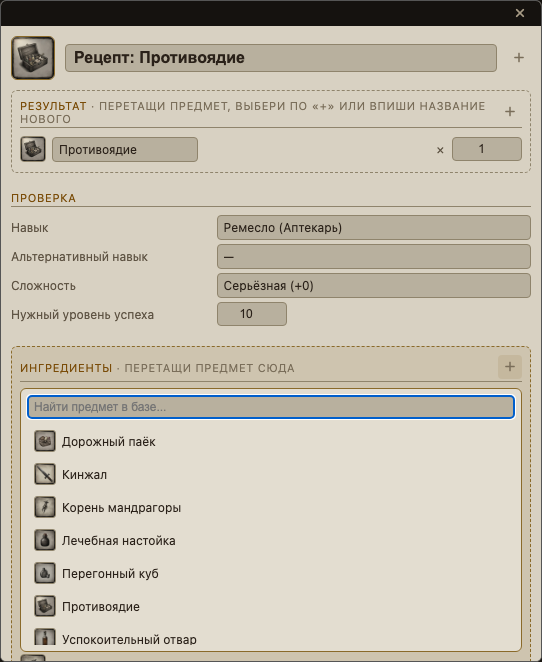
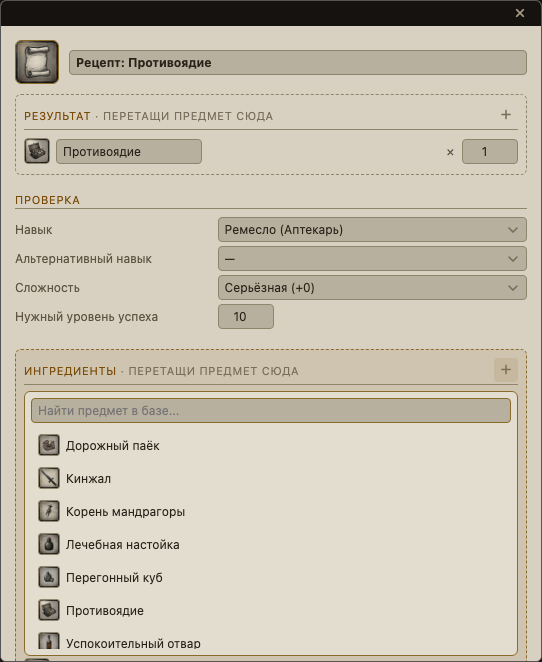
v0.1.5: фикс вёрстки листа на живом AppV2 (растяжка корня, поля не распирают строки, скролл листа), название WFRP 4e Recipe Book

diff --git a/styles/recipe-book.css b/styles/recipe-book.css
@@ -7,6 +7,7 @@
 /* ---------- Разворот книги ---------- */
 
 .wfrp-recipe-book .rb-root {
+  width: 100%; align-self: stretch; box-sizing: border-box;
   display: grid;
   grid-template-columns: minmax(280px, 340px) 1fr;
   height: 100%; min-height: 0;
@@ -80,11 +81,17 @@
 
 /* ---------- Лист рецепта (ГМ) ---------- */
 
-.rb-sheet .window-content { background: var(--rb-bg); color: var(--rb-text); }
-.wfrp-recipe-book .rb-sheet-root { display: flex; flex-direction: column; gap: var(--rb-space-4); padding: var(--rb-space-4); overflow-y: auto; height: 100%; box-sizing: border-box; font-size: var(--rb-fs-base); }
+.rb-sheet .window-content { background: var(--rb-bg); color: var(--rb-text); padding: 0; overflow: hidden; display: flex; flex-direction: column; }
+.wfrp-recipe-book .rb-sheet-root {
+  display: flex; flex-direction: column; gap: var(--rb-space-4);
+  padding: var(--rb-space-5); font-size: var(--rb-fs-base);
+  /* живой AppV2: растягиваемся на всю ширину и скроллим сами, по горизонтали не вылезаем */
+  width: 100%; align-self: stretch; box-sizing: border-box;
+  flex: 1; min-height: 0; overflow-y: auto; overflow-x: hidden;
+}
 .wfrp-recipe-book .rb-sheet-head { display: flex; gap: var(--rb-space-4); align-items: center; }
 .wfrp-recipe-book .rb-sheet-img { width: var(--rb-icon-l); height: var(--rb-icon-l); object-fit: cover; border: 1px solid var(--rb-gold-soft); border-radius: var(--rb-radius-lg); cursor: pointer; }
-.wfrp-recipe-book .rb-sheet-name { flex: 1; font-size: var(--rb-fs-xl); font-weight: 700; padding: var(--rb-space-1) var(--rb-space-3); }
+.wfrp-recipe-book .rb-sheet-name { flex: 1 1 0; min-width: 0; width: auto; font-size: var(--rb-fs-xl); font-weight: 700; padding: var(--rb-space-1) var(--rb-space-3); }
 .wfrp-recipe-book .rb-sheet-count { display: inline-flex; align-items: center; gap: var(--rb-space-1); color: var(--rb-text-dim); white-space: nowrap; }
 .wfrp-recipe-book .rb-sheet-root .rb-block { margin-bottom: var(--rb-space-3); }
 .wfrp-recipe-book .rb-sheet-root .rb-row { padding: 2px 0; }
@@ -95,7 +102,7 @@
 .wfrp-recipe-book .rb-result-ico:hover img, .wfrp-recipe-book .rb-result-ico:hover .rb-ing-ico { border-color: var(--rb-gold-soft); }
 
 /* Имя результата - поле в строке; пометка «новый предмет» */
-.wfrp-recipe-book .rb-result-name { flex: 1; min-width: 0; }
+.wfrp-recipe-book .rb-result-name { flex: 1 1 0; min-width: 0; width: auto; }
 .wfrp-recipe-book .rb-result-note { font-size: var(--rb-fs-s); font-style: italic; }
 
 /* Футер листа: отмена слева, сохранение справа, кнопки одной ширины */

diff --git a/styles/rb-system.css b/styles/rb-system.css
@@ -183,10 +183,11 @@
 .wfrp-recipe-book .rb-search input { width: 100%; padding-left: calc(var(--rb-space-3) * 3); }
 
 /* Строка формы: подпись слева, поле справа */
-.wfrp-recipe-book .rb-field { display: flex; align-items: center; gap: var(--rb-space-3); padding: 2px 0; }
-.wfrp-recipe-book .rb-field label { flex: 0 0 38%; color: var(--rb-text-dim); font-size: var(--rb-fs-m); }
-.wfrp-recipe-book .rb-field input[type="text"], .wfrp-recipe-book .rb-field select { flex: 1; width: 100%; }
-.wfrp-recipe-book textarea { width: 100%; }
+.wfrp-recipe-book .rb-field { display: flex; align-items: center; gap: var(--rb-space-3); padding: 2px 0; min-width: 0; }
+.wfrp-recipe-book .rb-field label { flex: 0 0 38%; min-width: 0; color: var(--rb-text-dim); font-size: var(--rb-fs-m); }
+/* flex-basis 0 + min-width 0: поле НЕ распирает строку длинным содержимым (живой Foundry это ловил) */
+.wfrp-recipe-book .rb-field input[type="text"], .wfrp-recipe-book .rb-field select { flex: 1 1 0; width: auto; min-width: 0; }
+.wfrp-recipe-book textarea { width: 100%; box-sizing: border-box; }
 
 /* ========================= Секции и строки ========================= */
 

diff --git a/README.md b/README.md
@@ -1,4 +1,4 @@
-# WFRP Paperdoll Recipe Book (Книга рецептов WFRP)
+# WFRP 4e Recipe Book (Книга рецептов WFRP)
 
 Модуль Foundry VTT для системы Warhammer Fantasy Roleplay 4e: крафт по рецептам, книга рецептов на листе персонажа и автоматизация продолжительных проверок.
 
@@ -10,7 +10,7 @@
 https://github.com/rain2rock/wfrp4e-recipe-book/releases/latest/download/module.json
 ```
 
-Затем зайди в мир → «Настройки игры» → «Управление модулями» → включи «Книга рецептов WFRP».
+Затем зайди в мир → «Настройки игры» → «Управление модулями» → включи «WFRP 4e Recipe Book».
 Обновления Foundry подтянет сам по этой же ссылке.
 
 Ссылка `github.com/.../blob/main/module.json` не подойдёт: это страница сайта, а не файл.
@@ -67,7 +67,7 @@ https://github.com/rain2rock/wfrp4e-recipe-book/releases/latest/download/module.
 
 ---
 
-## WFRP Paperdoll Recipe Book
+## WFRP 4e Recipe Book
 
 A Foundry VTT module for Warhammer Fantasy Roleplay 4e that adds recipe-based crafting following the «Crafting» rules (Core Rulebook, p. 199) and extended tests (p. 154).
 
